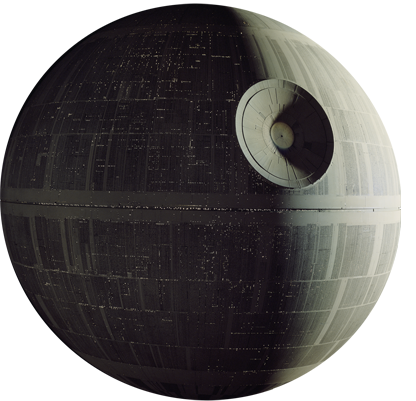
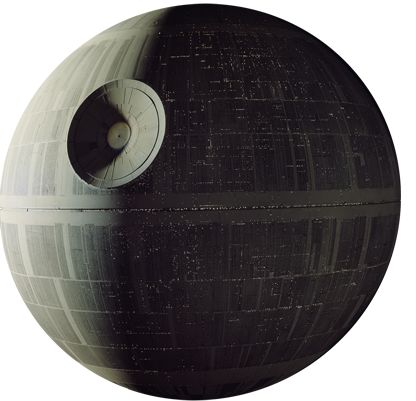
Memory Match v.5.5

diff --git a/match.js b/match.js
@@ -22,7 +22,6 @@ function click_card(card_back_id) {
 	first_card_front_src = card_front_id.attr('src');
 	console.log('Src: ', first_card_front_src);
 	
-	
 
 	if (!second_card_clicked) {
 		first_card_front_id = card_front_id;
@@ -37,6 +36,7 @@ function click_card(card_back_id) {
 			console.log('Second clicked id: ', card_front_id);// Redundant code*/
 			card_front_id.fadeOut(1000);
 			first_card_front_id.fadeOut(1000);
+			$('#xwing').animate({left: "+=35.5px"});
 			console.log('First clicked id: ',first_card_back_id)
 			second_card_clicked = false;
 		} else {

diff --git a/style.css b/style.css
@@ -7,7 +7,9 @@ body {
 	background-position: 50% 50%;
 	background-size: cover;
 }
-
+/********************************
+HEADER
+********************************/
 header {
 	width: 1200px;
 	height: 125px;
@@ -20,6 +22,21 @@ header img {
 	height: 115px;
 }
 
+#xwing {
+	position: relative;
+	width:190px;
+	height: 120px;
+}
+
+#death_star {
+	width: 120px;
+	height: 120px;
+	float: right;
+}
+
+/********************************
+GAME BODY
+********************************/
 .game {
 	margin: 0 auto;
 	width: 1200px;

diff --git a/index.html b/index.html
@@ -10,11 +10,8 @@
 <body>
 <header>
 	<img src="img/matchwars.png" alt="Game Logo">
-	<p>Reset Game</p>
-	<ul>
-		<li></li>
-		<li></li>
-	<ul>
+	<img id="xwing" src="img/xwing.png" alt="X-Wing">
+	<img id="death_star" src="img/deathstar1.png" alt="X-Wing">
 </header>
 <div class="game">
 <div class="info">
